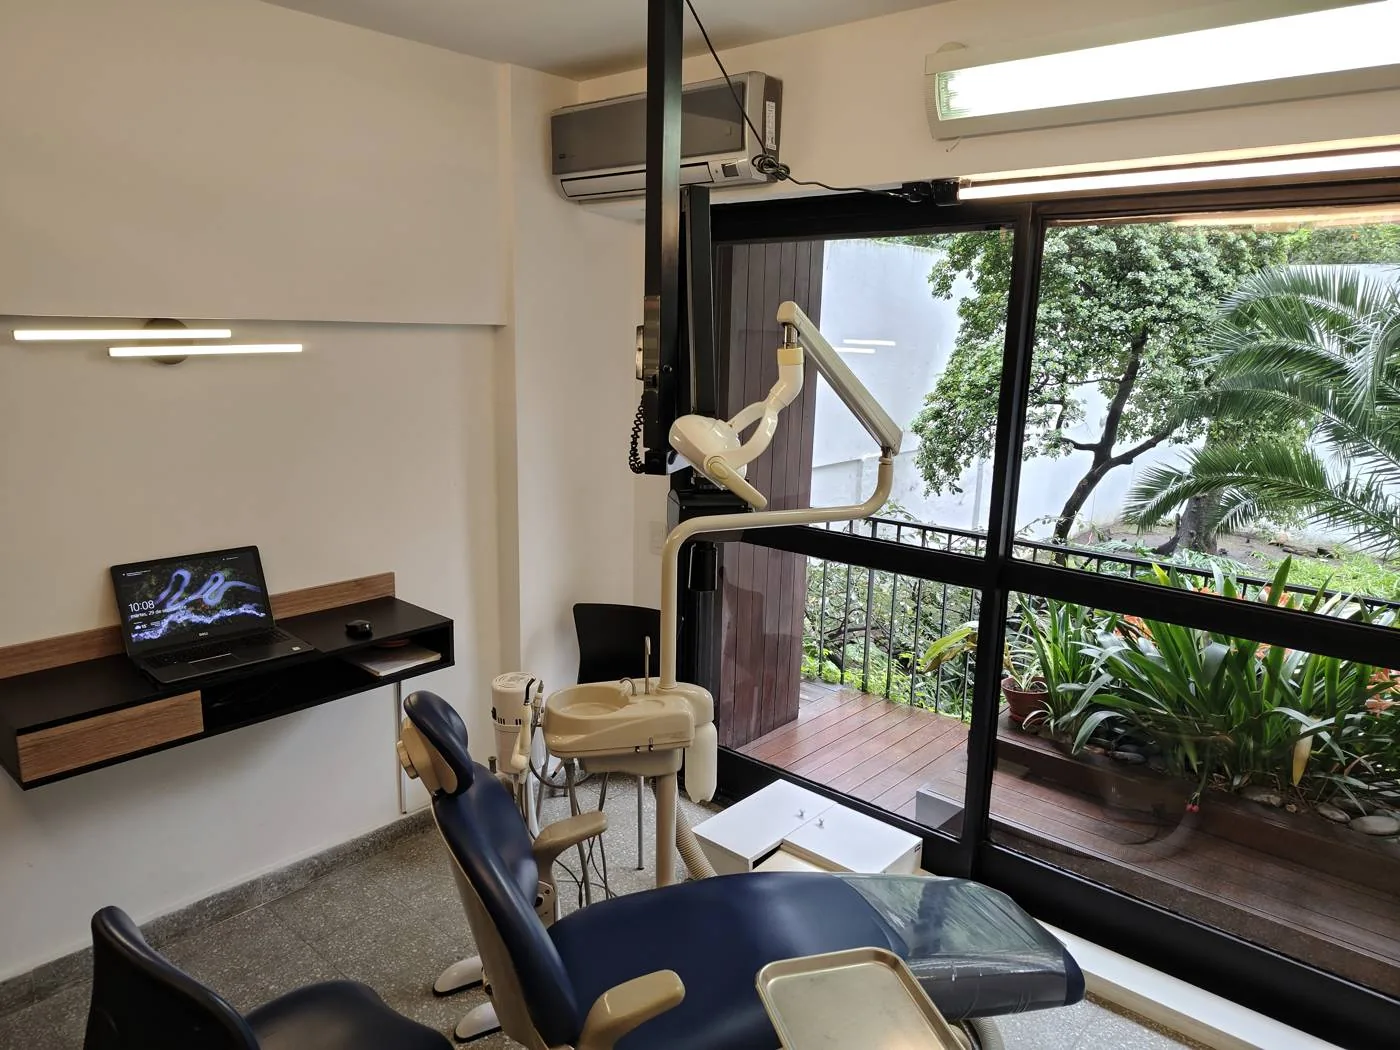
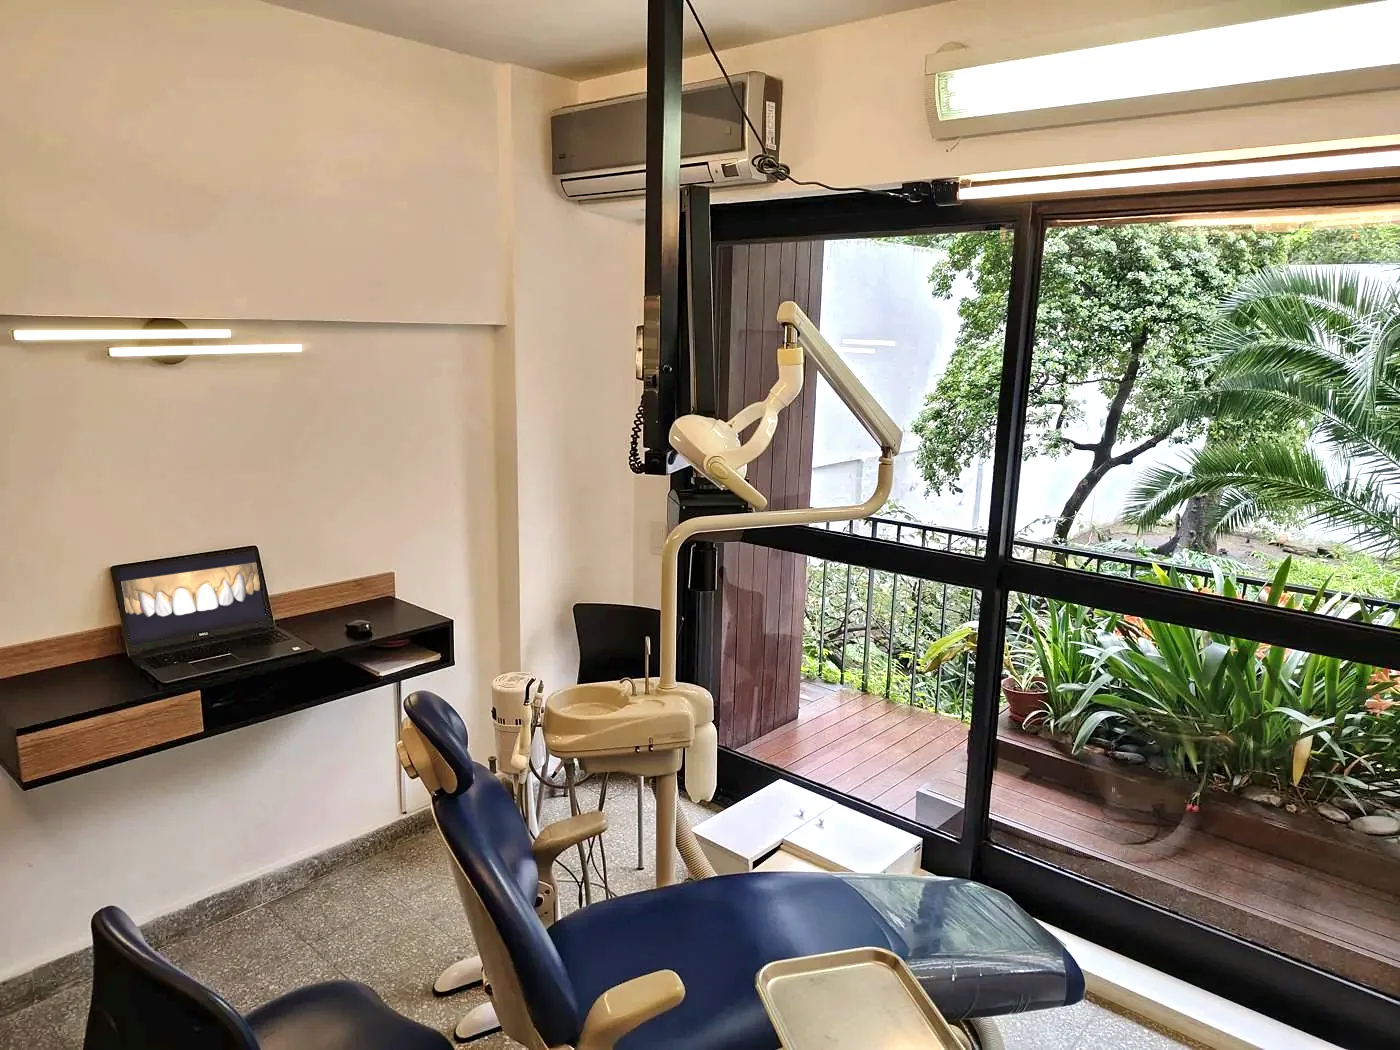
Consultorio: cambios pedidos por el Dr. Mininni
- Caso de implante primero en Planificación digital, diseño de sonrisa segundo
- Diplomas sin mención a la UBA
- Foto de la guía quirúrgica girada 180° (estaba dada vuelta)
- Pantallas del consultorio con capturas de planificación dental en vez del fondo de Windows
- Retoque de luz en las fotos del consultorio (día nublado)

Claude-Session: https://claude.ai/code/session_01RWCigSsUfT4GXaGNz4TG82

diff --git a/consultorio/index.html b/consultorio/index.html
@@ -176,23 +176,11 @@
     </div>
 
     <div class="ctabs reveal" role="tablist" aria-label="Casos de planificación digital">
-      <button role="tab" id="t-sonrisa" aria-controls="p-sonrisa" aria-selected="true">Diseño de sonrisa</button>
-      <button role="tab" id="t-implante" aria-controls="p-implante" aria-selected="false" tabindex="-1">Diseño de implantes</button>
+      <button role="tab" id="t-implante" aria-controls="p-implante" aria-selected="true">Diseño de implantes</button>
+      <button role="tab" id="t-sonrisa" aria-controls="p-sonrisa" aria-selected="false" tabindex="-1">Diseño de sonrisa</button>
     </div>
 
-    <div class="cpanel" id="p-sonrisa" role="tabpanel" aria-labelledby="t-sonrisa">
-      <p class="cpanel__lead">Un mismo caso planificado por dos caminos, el analógico y el digital, para mostrar que lo que define el resultado no es la herramienta sino el criterio clínico.</p>
-      <ol class="tl">
-        <li><h4><i>1</i>Diagnóstico</h4>
-          <div class="pics pics--2"><figure><button class="zoom" type="button" data-full="assets/img/sonrisa-1-inicial.webp"><img src="assets/img/sonrisa-1-inicial.webp" alt="Situación inicial" width="1200" height="600" loading="lazy"></button><figcaption>Situación inicial</figcaption></figure><figure><button class="zoom" type="button" data-full="assets/img/sonrisa-2-escaneo.webp"><img src="assets/img/sonrisa-2-escaneo.webp" alt="Escaneo digital inicial" width="1200" height="600" loading="lazy"></button><figcaption>Escaneo digital inicial</figcaption></figure></div></li>
-        <li><h4><i>2</i>Planificación: dos caminos, un mismo diseño</h4>
-          <div class="pics pics--2"><figure><button class="zoom" type="button" data-full="assets/img/sonrisa-3-diseno.webp"><img src="assets/img/sonrisa-3-diseno.webp" alt="Diseño digital de los dientes anteriores" width="1200" height="600" loading="lazy"></button><figcaption>Diseño digital de los dientes anteriores</figcaption></figure><figure><button class="zoom" type="button" data-full="assets/img/sonrisa-4-encerado.webp"><img src="assets/img/sonrisa-4-encerado.webp" alt="Encerado analógico sobre modelo" width="1200" height="600" loading="lazy"></button><figcaption>Encerado analógico sobre modelo</figcaption></figure></div></li>
-        <li><h4><i>3</i>Prueba y resultado</h4>
-          <div class="pics pics--2"><figure><button class="zoom" type="button" data-full="assets/img/sonrisa-5-mockup.webp"><img src="assets/img/sonrisa-5-mockup.webp" alt="Prueba de mock-up en boca" width="1200" height="600" loading="lazy"></button><figcaption>Prueba de mock-up en boca</figcaption></figure><figure><button class="zoom" type="button" data-full="assets/img/sonrisa-6-final.webp"><img src="assets/img/sonrisa-6-final.webp" alt="Resultado final con resinas" width="1200" height="600" loading="lazy"></button><figcaption>Resultado final con resinas</figcaption></figure></div></li>
-      </ol>
-    </div>
-
-    <div class="cpanel" id="p-implante" role="tabpanel" aria-labelledby="t-implante" hidden>
+    <div class="cpanel" id="p-implante" role="tabpanel" aria-labelledby="t-implante">
       <p class="cpanel__lead">Pieza 11 con reabsorción dentinaria no tratable. El análisis digital permitió definir la posición del implante y preparar la guía quirúrgica antes de comenzar. Se decidió la exodoncia, un implante inmediato, un injerto de tejido conectivo y relleno con injerto óseo, con un provisorio adhesivo a las piezas vecinas.</p>
       <ol class="tl">
         <li><h4><i>1</i>Diagnóstico</h4>
@@ -209,6 +197,18 @@
           <div class="pics"><figure style="--r:1.831"><button class="zoom" type="button" data-full="assets/img/implante-8-provisorio.webp"><img src="assets/img/implante-8-provisorio.webp" alt="Provisorio adhesivo a las piezas vecinas, inmediatamente después de la cirugía" width="1300" height="710" loading="lazy"></button><figcaption>Provisorio adhesivo, inmediatamente después de la cirugía</figcaption></figure><figure style="--r:1.881"><button class="zoom" type="button" data-full="assets/img/implante-9-corona.webp"><img src="assets/img/implante-9-corona.webp" alt="Corona final" width="1300" height="691" loading="lazy"></button><figcaption>Corona final</figcaption></figure></div></li>
       </ol>
     </div>
+    <div class="cpanel" id="p-sonrisa" role="tabpanel" aria-labelledby="t-sonrisa" hidden>
+      <p class="cpanel__lead">Un mismo caso planificado por dos caminos, el analógico y el digital, para mostrar que lo que define el resultado no es la herramienta sino el criterio clínico.</p>
+      <ol class="tl">
+        <li><h4><i>1</i>Diagnóstico</h4>
+          <div class="pics pics--2"><figure><button class="zoom" type="button" data-full="assets/img/sonrisa-1-inicial.webp"><img src="assets/img/sonrisa-1-inicial.webp" alt="Situación inicial" width="1200" height="600" loading="lazy"></button><figcaption>Situación inicial</figcaption></figure><figure><button class="zoom" type="button" data-full="assets/img/sonrisa-2-escaneo.webp"><img src="assets/img/sonrisa-2-escaneo.webp" alt="Escaneo digital inicial" width="1200" height="600" loading="lazy"></button><figcaption>Escaneo digital inicial</figcaption></figure></div></li>
+        <li><h4><i>2</i>Planificación: dos caminos, un mismo diseño</h4>
+          <div class="pics pics--2"><figure><button class="zoom" type="button" data-full="assets/img/sonrisa-3-diseno.webp"><img src="assets/img/sonrisa-3-diseno.webp" alt="Diseño digital de los dientes anteriores" width="1200" height="600" loading="lazy"></button><figcaption>Diseño digital de los dientes anteriores</figcaption></figure><figure><button class="zoom" type="button" data-full="assets/img/sonrisa-4-encerado.webp"><img src="assets/img/sonrisa-4-encerado.webp" alt="Encerado analógico sobre modelo" width="1200" height="600" loading="lazy"></button><figcaption>Encerado analógico sobre modelo</figcaption></figure></div></li>
+        <li><h4><i>3</i>Prueba y resultado</h4>
+          <div class="pics pics--2"><figure><button class="zoom" type="button" data-full="assets/img/sonrisa-5-mockup.webp"><img src="assets/img/sonrisa-5-mockup.webp" alt="Prueba de mock-up en boca" width="1200" height="600" loading="lazy"></button><figcaption>Prueba de mock-up en boca</figcaption></figure><figure><button class="zoom" type="button" data-full="assets/img/sonrisa-6-final.webp"><img src="assets/img/sonrisa-6-final.webp" alt="Resultado final con resinas" width="1200" height="600" loading="lazy"></button><figcaption>Resultado final con resinas</figcaption></figure></div></li>
+      </ol>
+    </div>
+
   </div>
 </section>
 
@@ -273,7 +273,7 @@
           <li class="reveal"><b>Hoy</b><span>El Dr. Mariano Mininni, que lo siente como propio, sigue ese legado.</span></li>
         </ol>
       </div>
-      <figure class="legacy__img reveal"><img src="assets/img/diplomas.webp" alt="Diplomas de la Facultad de Odontología de la UBA enmarcados en la recepción" width="1050" height="1400" loading="lazy"><figcaption>Diplomas de la Facultad de Odontología (UBA) en la recepción</figcaption></figure>
+      <figure class="legacy__img reveal"><img src="assets/img/diplomas.webp" alt="Diplomas enmarcados en la recepción" width="1050" height="1400" loading="lazy"><figcaption>Diplomas en la recepción</figcaption></figure>
     </div>
     <div class="docs">
       <figure class="doc reveal"><img src="assets/img/dr-guerra.webp" alt="Retrato del Dr. Claudio M. Guerra" width="720" height="957" loading="lazy"><figcaption><b>Dr. Claudio M. Guerra</b><span>Odontólogo</span></figcaption></figure>

diff --git a/consultorio/README.md b/consultorio/README.md
@@ -7,7 +7,7 @@ Web del consultorio (Aráoz 2879, 1° D, Buenos Aires), hecha a partir del bocet
 - **Portada** con la foto del consultorio, "Desde 1969" y botón directo a WhatsApp con el mensaje listo.
 - **El consultorio**: galería (se amplía al tocar) y recorrido en video; los videos cargan y se reproducen solo cuando están en pantalla.
 - **Tratamientos**: operatoria, rehabilitación oral (destacada), mantenimiento periodontal y tecnología digital, y cómo es la atención.
-- **Planificación digital**: los dos casos (diseño de sonrisa e implante inmediato) en pestañas, paso a paso. Las fotos de la cirugía quedan difuminadas hasta que la persona elige verlas.
+- **Planificación digital**: los dos casos (implante inmediato y diseño de sonrisa) en pestañas, paso a paso. Las fotos de la cirugía quedan difuminadas hasta que la persona elige verlas.
 - **Casos clínicos**: 20 casos de antes y después con filtros y visor a pantalla completa (flechas del teclado o deslizar en el celular).
 - **Equipo**: la historia desde 1969 y los profesionales.
 - **Contacto**: WhatsApp, mail, reseñas en Google Maps y mapa.
